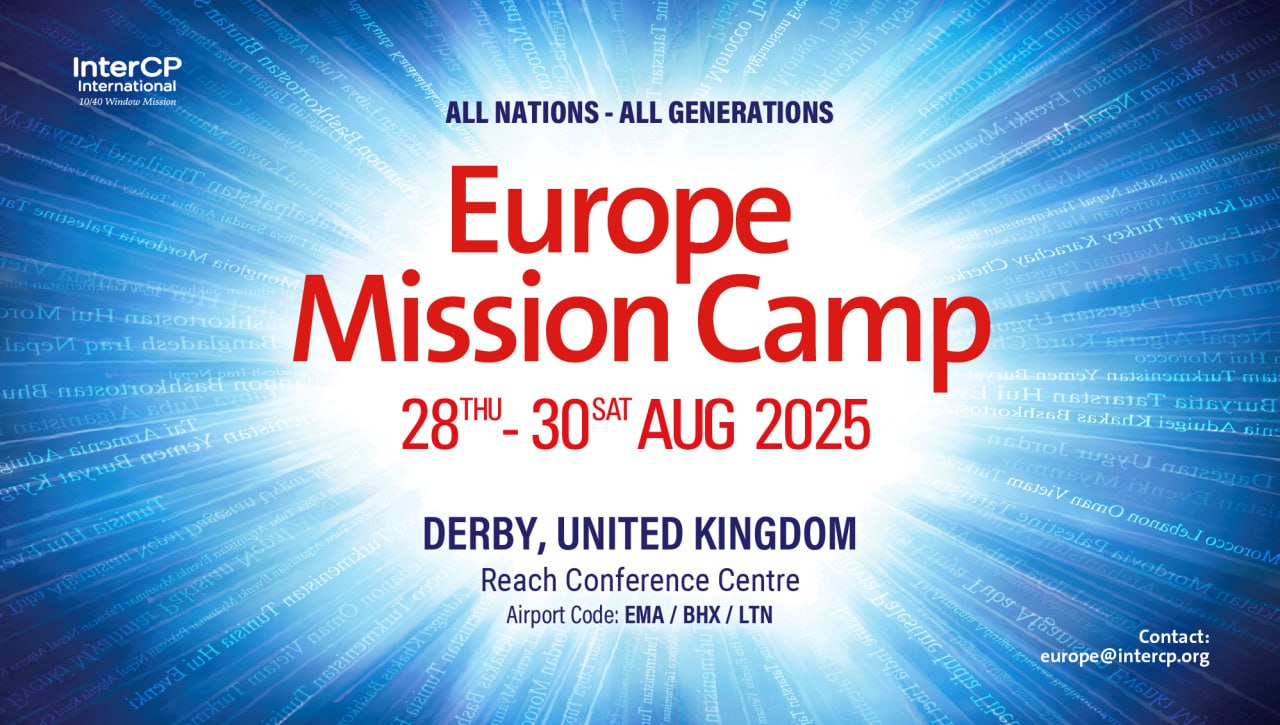
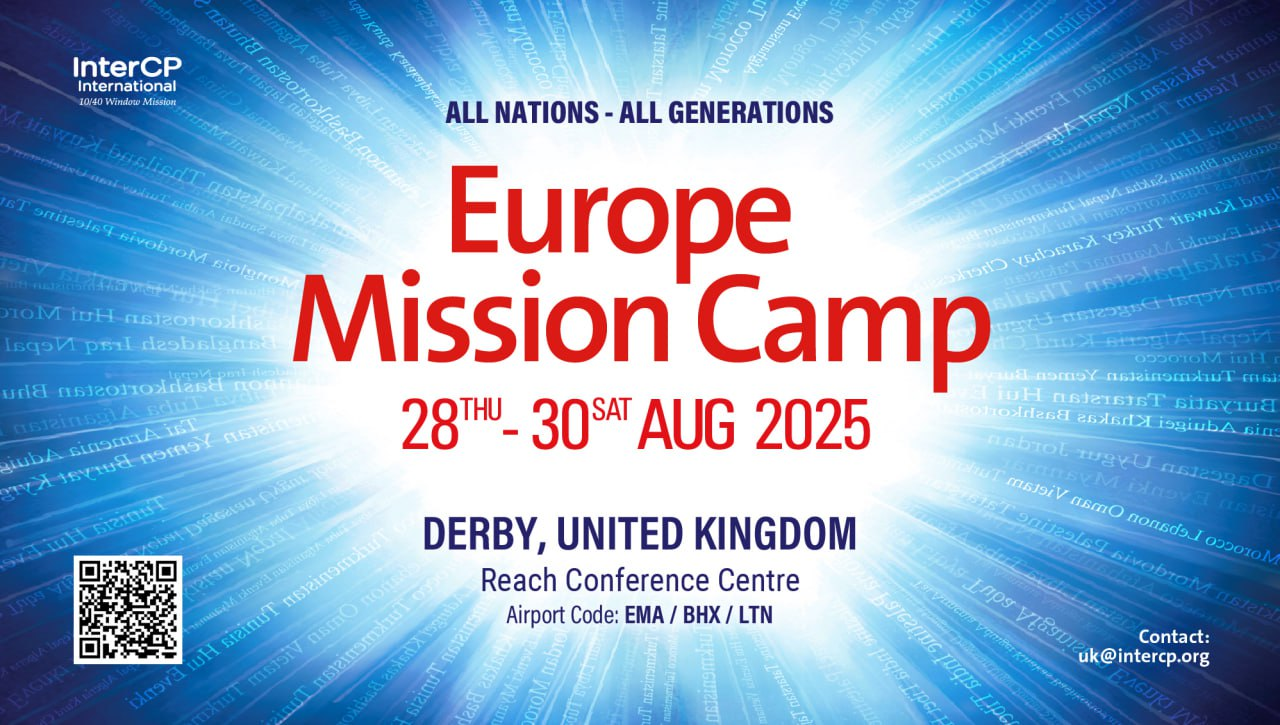
update poster, now clickable

Changed region(s): [[0.0312, 0.7586, 0.1562, 0.9407], [0.8125, 0.88, 0.875, 0.9407]]

diff --git a/index.html b/index.html
@@ -111,7 +111,10 @@
     </div>
 
     <div class="container my-4 d-flex">
-        <img class="w-75 mx-auto" src="/res/poster.jpg" />
+        <a class="d-block w-75 mx-auto" href="/res/poster.jpg">
+            <img class="w-100" src="/res/poster.jpg" alt="Mission Camp Poster"/>
+        </a>
+        
     </div>
 
     <div class="container" id="venue">
